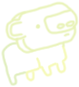
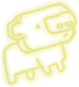
More gold 'n' glowy
It wasn't gold enough, so now it's more gold (and glowy)

diff --git a/css/new-age.css b/css/new-age.css
@@ -19,7 +19,7 @@
 
 #glowingWumpus {
     position: absolute;
-    top: 516px;
+    top: 515px;
     left: 339px;
     z-index: 10001;
 }
